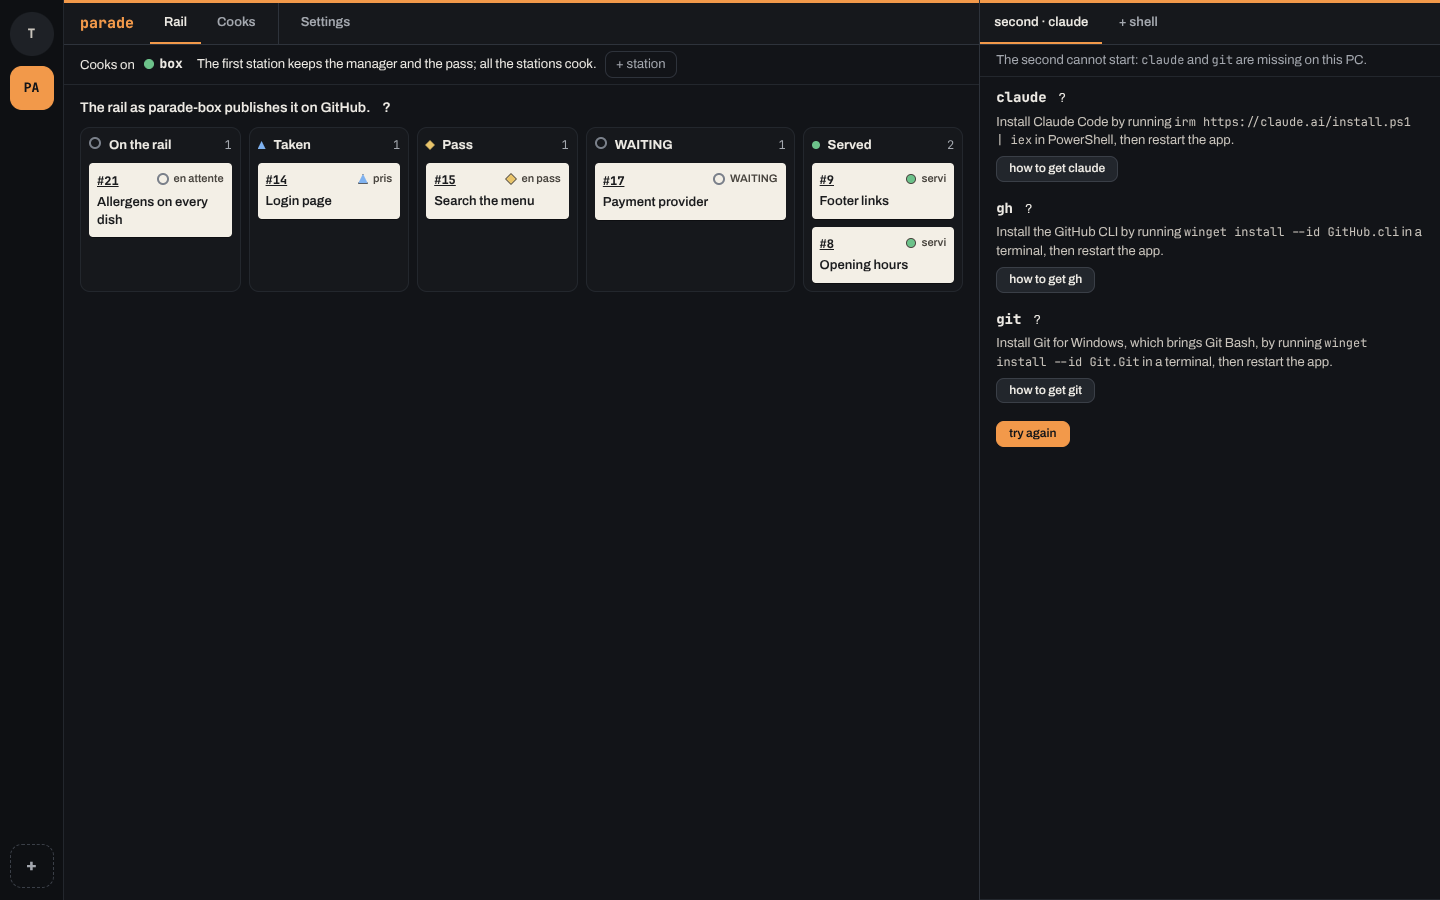
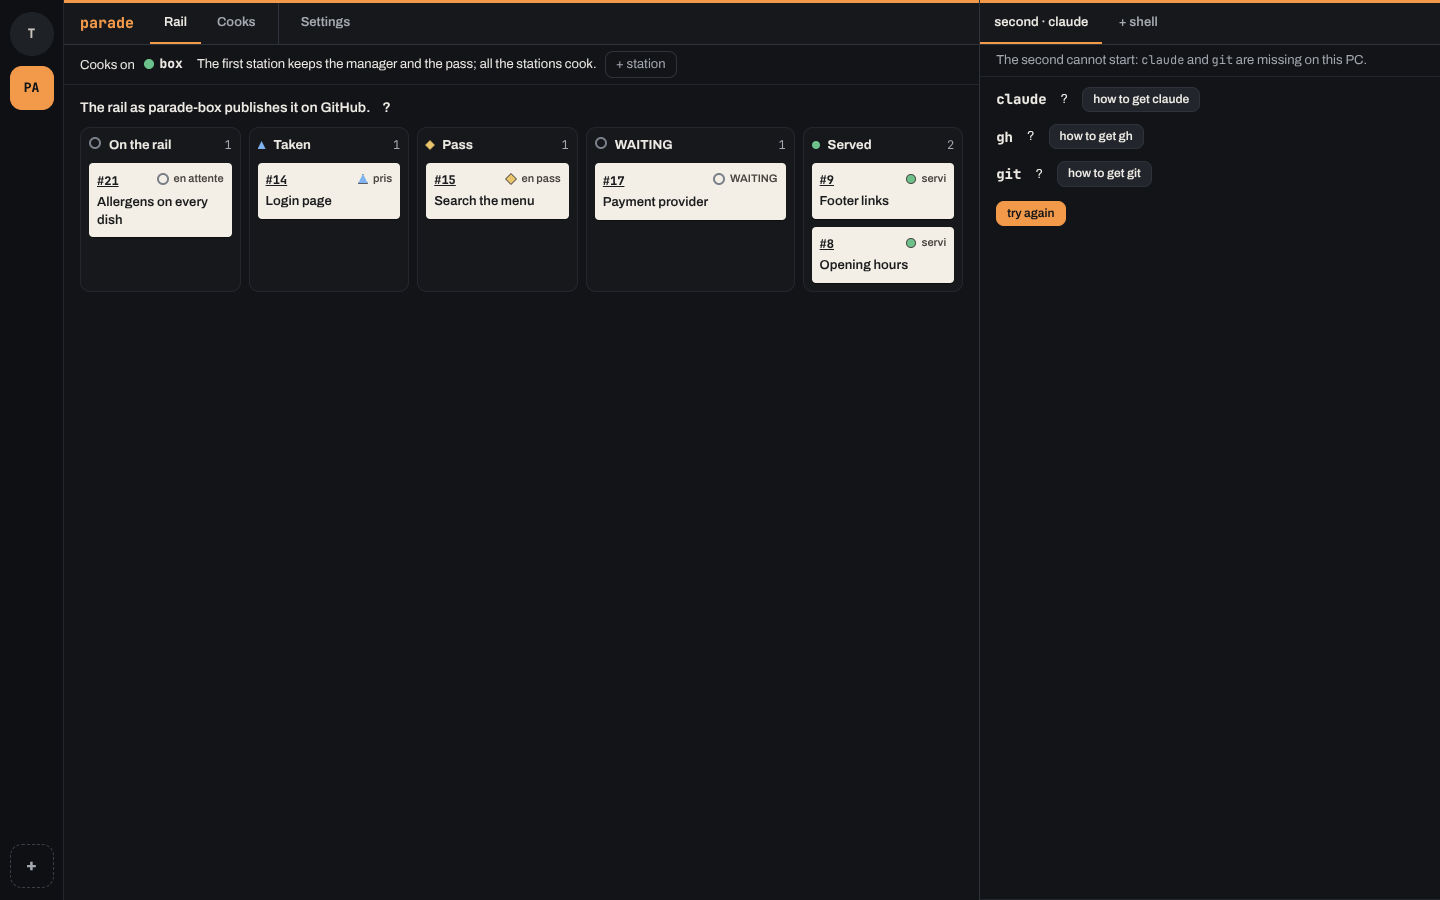
fix(#1435): a missing tool of the second is a button, never a command to copy
Under each missing tool, the "how to get <tool>" button carries the gesture; why the second needs it
and the runtime's sentence on how to get it move into the hover (rules of #830). Captures and docs
updated.

Changed region(s): [[0.6875, 0.0933, 0.9688, 0.3422], [0.6875, 0.3422, 0.9375, 0.4978], [0.9062, 0.2489, 0.9688, 0.28]]

diff --git a/app/test/vue/rail-publie.test.ts b/app/test/vue/rail-publie.test.ts
@@ -1,7 +1,7 @@
 // Les onglets Rail et Second d'un projet ouvert sur un ordinateur neuf ne restent jamais vides (#1435, épique 1427) :
 // Rail montre les tickets que sa station publie sur GitHub (#1432), rangés dans les colonnes du Mac, ou la phrase du
 // runtime qui dit pourquoi ils ne se lisent pas ; Second montre le second qui part, ou, s'il ne part pas, pourquoi et
-// chaque outil qui manque, avec ce qui l'obtient (#1433). Les modules sont joués devant un faux document, puis la vue
+// chaque outil qui manque, et le bouton de la page qui dit comment l'obtenir (#1433). Les modules sont joués devant un faux document, puis la vue
 // entière devant un faux pont (aides/fausse-vue.ts).
 import assert from "node:assert/strict";
 import { describe, test } from "node:test";
@@ -157,7 +157,7 @@ const EMPECHE: DitDuSecond = {
 const MANQUE: DitDuSecond = { reason: "The second starts, but `gh` is missing on this computer, and what needs it will fail until it is installed.", tools: EMPECHE.tools.slice(1) };
 
 describe("le second qui ne part pas, ou part sans tous ses outils", () => {
-  test("empêché : chaque outil qui manque, nommé, ce qui l'obtient — sa commande en code —, sa page ; « try again », recommandé", () => {
+  test("empêché : chaque outil qui manque, nommé, et le bouton de sa page ; comment l'obtenir au survol, jamais à plat ; « try again », recommandé", () => {
     const faits: string[] = [];
     const pose = poserOutilsDuSecond(doc, EMPECHE, { bloque: true, reessayer: () => void faits.push("reessayer"), ouvrirLaPage: (url) => void faits.push(url) }) as unknown as Faux;
     const outils = sous(pose).filter((enfant) => enfant.className === "outil-manquant");
@@ -165,11 +165,14 @@ describe("le second qui ne part pas, ou part sans tous ses outils", () => {
       outils.map((outil) => sous(outil).find((enfant) => enfant.balise === "strong")?.textContent),
       ["claude", "gh"],
     );
-    const comment = sous(outils[0]).find((enfant) => enfant.className === "comment-l-obtenir");
-    assert.equal(comment?.textContent, "Install Claude Code by running curl -fsSL https://claude.ai/install.sh | bash in a terminal, then restart brigade.");
-    assert.equal(sous(comment).find((enfant) => enfant.balise === "code")?.textContent, "curl -fsSL https://claude.ai/install.sh | bash");
-    // Pourquoi le second en a besoin, au survol seulement.
-    assert.equal(sous(outils[0]).find((enfant) => enfant.className === "aide")?.ariaLabel, EMPECHE.tools[0]?.reason);
+    // Aucune commande à recopier à plat (#830) : le bouton de sa page porte le geste. Pourquoi le second en a besoin,
+    // et comment l'obtenir, sont au survol seulement — sans accents graves.
+    assert.equal(outils[0]?.textContent.includes("curl"), false);
+    assert.equal(sous(outils[0]).some((enfant) => enfant.balise === "code"), false);
+    assert.equal(
+      sous(outils[0]).find((enfant) => enfant.className === "aide")?.ariaLabel,
+      "claude is not on the PATH, and the second is a Claude Code session. Install Claude Code by running curl -fsSL https://claude.ai/install.sh | bash in a terminal, then restart brigade.",
+    );
     // La raison est dans la note du second : elle ne se redit pas ici.
     assert.equal(pose.textContent.includes("The second cannot start"), false);
     assert.deepEqual(boutons([pose]).map((enfant) => [enfant.textContent, enfant.className]), [[PAGE_DE("claude"), ""], [PAGE_DE("gh"), ""], [REESSAYER_LE_SECOND, "recommande"]]);
@@ -258,7 +261,8 @@ describe("dans la vue : l'onglet Rail lit le rail publié, l'onglet Second dit c
     const outils = vue.element("outils-du-second");
     assert.equal(outils.hidden, false);
     assert.equal(vue.element("fil").hidden, true);
-    assert.match(outils.textContent, /^claude.*Install Claude Code by running curl/);
+    assert.match(outils.textContent, /^claude.*how to get claude/);
+    assert.equal(outils.textContent.includes("Install Claude Code"), false);
     bouton([outils], PAGE_DE("claude")).click();
     bouton([outils], REESSAYER_LE_SECOND).click();
     await repos();

diff --git a/app/src/vue/outils-du-second.js b/app/src/vue/outils-du-second.js
@@ -2,8 +2,9 @@
 // Ce que l'onglet Second dit quand le second ne part pas, ou part sans tous ses outils (ticket 1435, épique 1427) : le
 // runtime vérifie claude, gh, git et ssh avant de le lancer (ticket 1433), et l'app relaie ce qu'il en dit
 // (terminaux.ts, `empeche` et `manque`). Sa raison, en une phrase, est la note du second ; ici, sous elle, chaque outil
-// qui manque, nommé, avec la phrase qui dit comment l'obtenir — sa commande en code —, pourquoi le second en a besoin
-// au survol, et le bouton de sa page. Un second empêché a son bouton « try again », recommandé : il refait la
+// qui manque, nommé, et le bouton de sa page, qui porte le geste. Pourquoi le second en a besoin et la phrase qui dit
+// comment l'obtenir sont au survol : jamais une commande à recopier à plat (règles du ticket 830). Un second empêché a son
+// bouton « try again », recommandé : il refait la
 // vérification et, les outils installés, part. L'onglet n'est jamais vide : sans outil nommé, la raison suffit.
 // Ce module ne touche pas `document` : il reçoit de quoi créer un élément (briques.js), et rend des éléments.
 
@@ -45,14 +46,12 @@ export function poserOutilsDuSecond(doc, dit, { bloque, reessayer, ouvrirLaPage 
         outil.className = "outil-manquant";
         const nom = cree(doc, "strong", tool);
         nom.className = "mono";
-        const tete = cree(doc, "p");
-        tete.append(nom, survol(doc, reason));
-        const comment = phrase(doc, "p", install);
-        comment.className = "comment-l-obtenir";
+        // Au survol, sans accents graves : une bulle ne pose pas de code.
+        const aide = survol(doc, `${reason} ${install}`.replaceAll("`", ""));
         const page = cree(doc, "p");
         page.className = "gestes";
         page.append(boutonAction(doc, PAGE_DE(tool), () => ouvrirLaPage(link), { recommande: !bloque }));
-        outil.append(tete, comment, page);
+        outil.append(nom, aide, page);
         return outil;
       }),
     );

diff --git a/app/src/vue/vue.css b/app/src/vue/vue.css
@@ -5806,35 +5806,20 @@ button.recommande {
   margin: 0 0 10px;
   color: var(--texte-doux);
 }
-.outil-manquant p {
-  margin: 0 0 4px;
+.outil-manquant {
+  display: flex;
+  flex-wrap: wrap;
+  align-items: center;
+  gap: 4px 8px;
 }
 .outil-manquant strong {
   font-size: 14px;
   color: var(--texte);
 }
-.outil-manquant .survol {
-  margin-left: 6px;
-}
-.outil-manquant .comment-l-obtenir {
-  color: var(--texte-doux);
-  overflow-wrap: anywhere;
-}
 .outils-du-second .gestes {
   padding: 14px 0 0;
 }
 .outil-manquant .gestes {
-  padding: 2px 0 0;
-}
-.outils-du-second .action > button {
-  padding: 3px 12px;
-  font-size: 12px;
-  font-weight: 600;
-  background: var(--bouton);
-  border: 1px solid var(--trait-fort);
-  border-radius: var(--rayon-bouton);
-}
-.outils-du-second .action > button.recommande {
-  border-color: var(--accent);
-  background: var(--accent);
+  gap: 8px;
+  padding: 0;
 }

diff --git a/scripts/capture-ecran/ecrans/second-outils-manquants.ts b/scripts/capture-ecran/ecrans/second-outils-manquants.ts
@@ -1,4 +1,4 @@
-// Le second de parade sur un PC neuf (#1435), sans `claude`, `git` ni `gh` : il ne part pas, sa note dit pourquoi, et chaque outil qui manque est nommé avec ce qui l'obtient.
+// Le second de parade sur un PC neuf (#1435), sans `claude`, `git` ni `gh` : il ne part pas, sa note dit pourquoi, et chaque outil qui manque est nommé avec le bouton de sa page, comment l'obtenir au survol.
 import { espaceDuPC, LISTE_LUE, secondEmpeche } from "./rail-publie-commun.ts";
 
-export const ecran = espaceDuPC("Second de parade sur un PC neuf (#1435), sans claude, git ni gh : pourquoi, et chaque outil avec ce qui l'obtient", LISTE_LUE, secondEmpeche());
+export const ecran = espaceDuPC("Second de parade sur un PC neuf (#1435), sans claude, git ni gh : pourquoi, et chaque outil et le bouton de sa page", LISTE_LUE, secondEmpeche());

diff --git a/scripts/capture-ecran/README.md b/scripts/capture-ecran/README.md
@@ -113,7 +113,7 @@ compare que deux captures du même navigateur.
 | `cooks-apprentissage` | La même page quand ses cooks ont appris (#1058) : sous les causes, ses quatre leçons — deux provisoires, deux promues avec « open in the notebook » — et ses deux profils, leur domaine, leur carnet et leurs tickets. Sans `apprentissage` dans `facts`, `fiabilite` montre la phrase qui le dit |
 | `projet-refuse`, `projet-refuse-confirmer`, `projet-refuse-tient`, `projet-refuse-sans-remede` | L'onglet Cooks de `parade`, que sa box refuse de servir (#1178, #1205) : le refus, sa consigne et le bouton de son remède — puis le bouton cliqué et sa confirmation, le remède joué et la phrase qui dit pourquoi le refus tient, et un refus sans remède avec la phrase qui dit pourquoi il n'y a pas de bouton |
 | `rail-publie`, `rail-publie-lecture`, `rail-publie-connexion`, `rail-publie-indisponible` | L'espace de `parade` ouvert sur un PC neuf, sans box ni station ici (#1435) : Rail montre le rail que parade-box publie sur GitHub, en cinq colonnes — puis sa lecture en route, ce PC sans compte GitHub (« Sign in to GitHub »), et sans `gh` (« get the GitHub CLI », « read again ») |
-| `second-outils-manquants`, `second-sans-gh`, `second-sans-dossier` | Le même espace, son second tel que le runtime le planifie (#1435) : sans `claude`, `git` ni `gh`, il ne part pas — chaque outil nommé, ce qui l'obtient, « try again » —, puis parti sans `gh`, ce qui manque au-dessus du terminal, puis son dossier absent, la raison en une phrase |
+| `second-outils-manquants`, `second-sans-gh`, `second-sans-dossier` | Le même espace, son second tel que le runtime le planifie (#1435) : sans `claude`, `git` ni `gh`, il ne part pas — chaque outil nommé, le bouton de sa page (« how to get … »), comment l'obtenir au survol, « try again » —, puis parti sans `gh`, ce qui manque au-dessus du terminal, puis son dossier absent, la raison en une phrase |
 | `projet-choix`, `projet-choix-retenu` | L'espace de `parade`, à qui manquent un Postgres et Docker pour ses tests (#1400) : « 2 choices wait for you on parade », une carte par besoin, ses trois issues et ce qui suit de chacune — puis « Provide it on box » cliqué sur la carte du Postgres : elle part, celle de Docker reste |
 | `projet-blocages`, `projet-blocages-details` | L'espace de `parade`, que trois blocages retiennent (#1399) : « 3 things block parade », chacun sa phrase et sa cause, le lien qui nomme la page de GitHub, le bouton « choose another station », le détail replié — puis le même, le détail du premier déplié |
 | `fiabilite-recul` | La même page quand quatre corrections de ses consignes ont été acceptées (#1001) : sous les causes, chaque cause corrigée avant et après le merge — elle recule, elle ne recule pas, rien à comparer encore, pas encore mergée |

diff --git a/docs/app.md b/docs/app.md
@@ -270,12 +270,13 @@ still show something, always:
 - **Second** starts as the runtime plans it (#1433): the `claude` the PATH gives, and on Windows what
   launches it. When it cannot start, there is no terminal: its note says why in one sentence
   (`The second cannot start: claude and git are missing on this PC.`), and under it each missing
-  tool by name — why the second needs it in the hover, the sentence that says how to get it, its
-  command in code, and `how to get <tool>`, which opens the page that explains it. `try again`
-  checks the tools again and starts the second when they are there. When it starts but a tool is
-  missing (`gh`, `ssh`), the terminal is there, and above it the sentence that says what will fail
-  and how to get the tool. Any other failure — the project's folder missing, a launch refused — is
-  said in the note's one sentence, with `try again`.
+  tool by name, with `how to get <tool>`, which opens the page that explains it: the button carries
+  the gesture, no command is written out to copy. Why the second needs the tool, and the runtime's
+  sentence on how to get it, are in the `?` hover. `try again` checks the tools again and starts the
+  second when they are there. When it starts but a tool is missing (`gh`, `ssh`), the terminal is
+  there, and above it the sentence that says what will fail, then the tool and its button. Any other
+  failure — the project's folder missing, a launch refused — is said in the note's one sentence,
+  with `try again`.
 
 *Code: `app/src/vue/rail-publie.js` and `app/src/vue/outils-du-second.js` (the screens),
 `railDuProjet` in `app/src/main.ts`, `rangerLeRailPublie` in `app/src/faits.ts`, the plan of the
